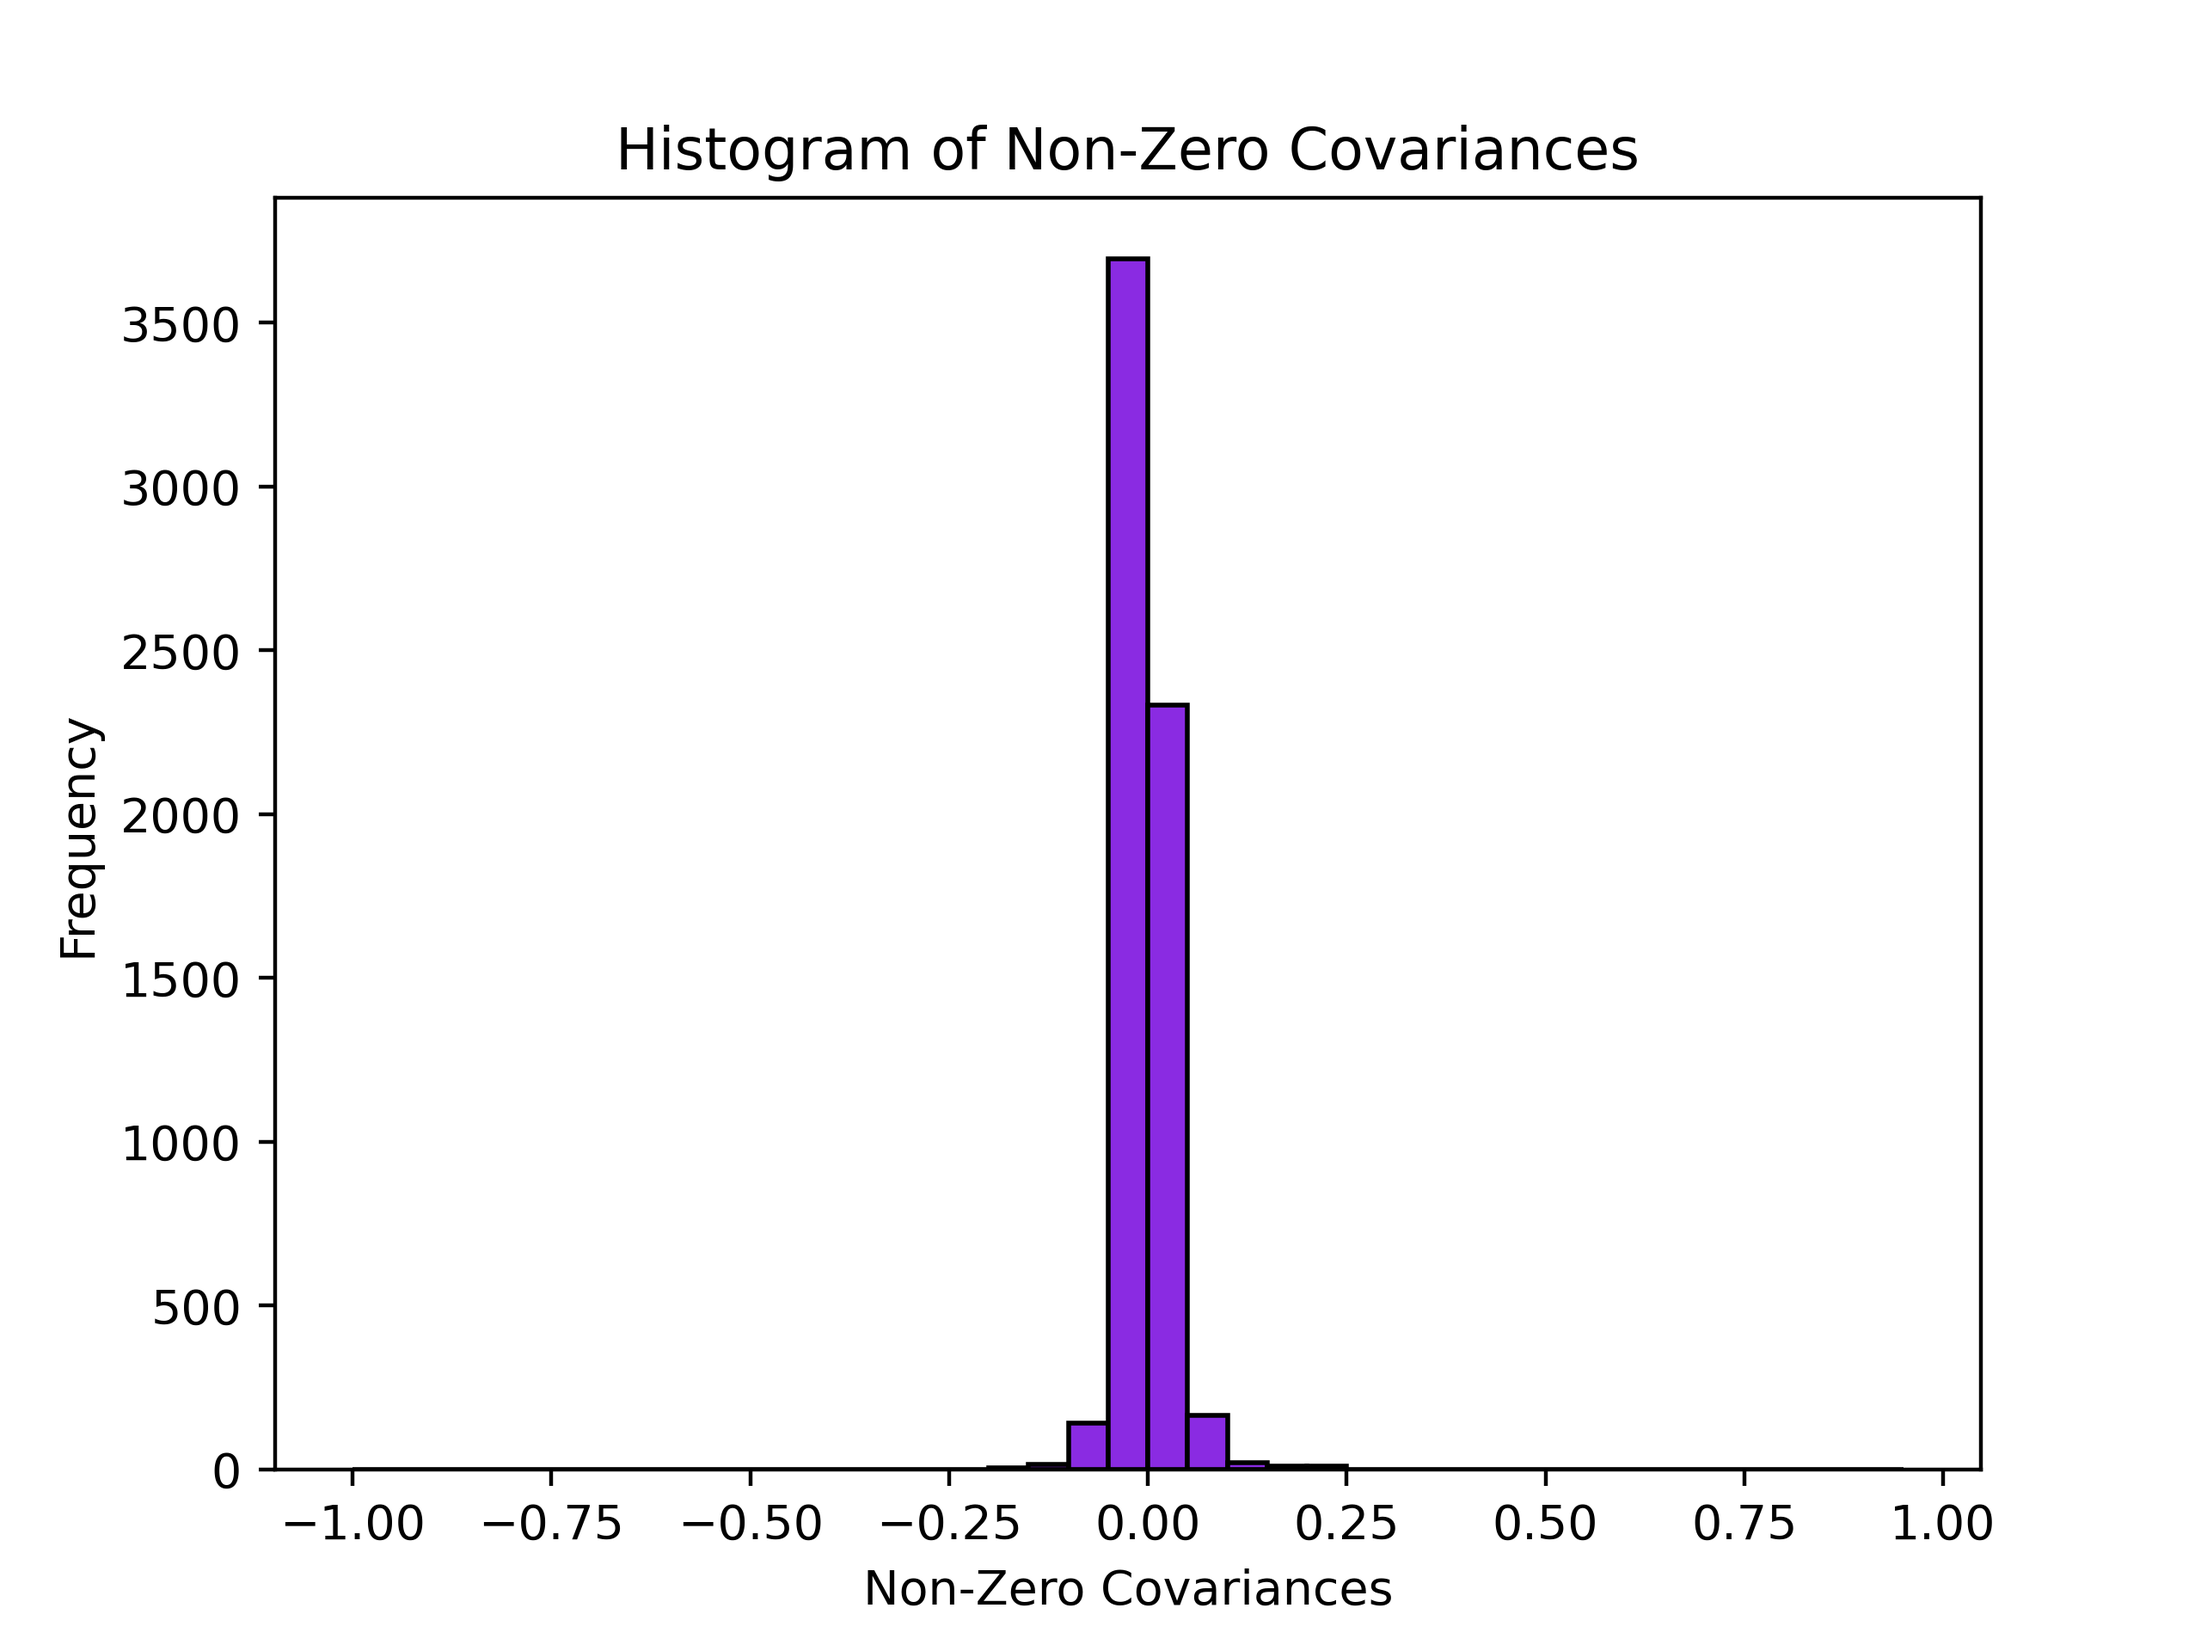
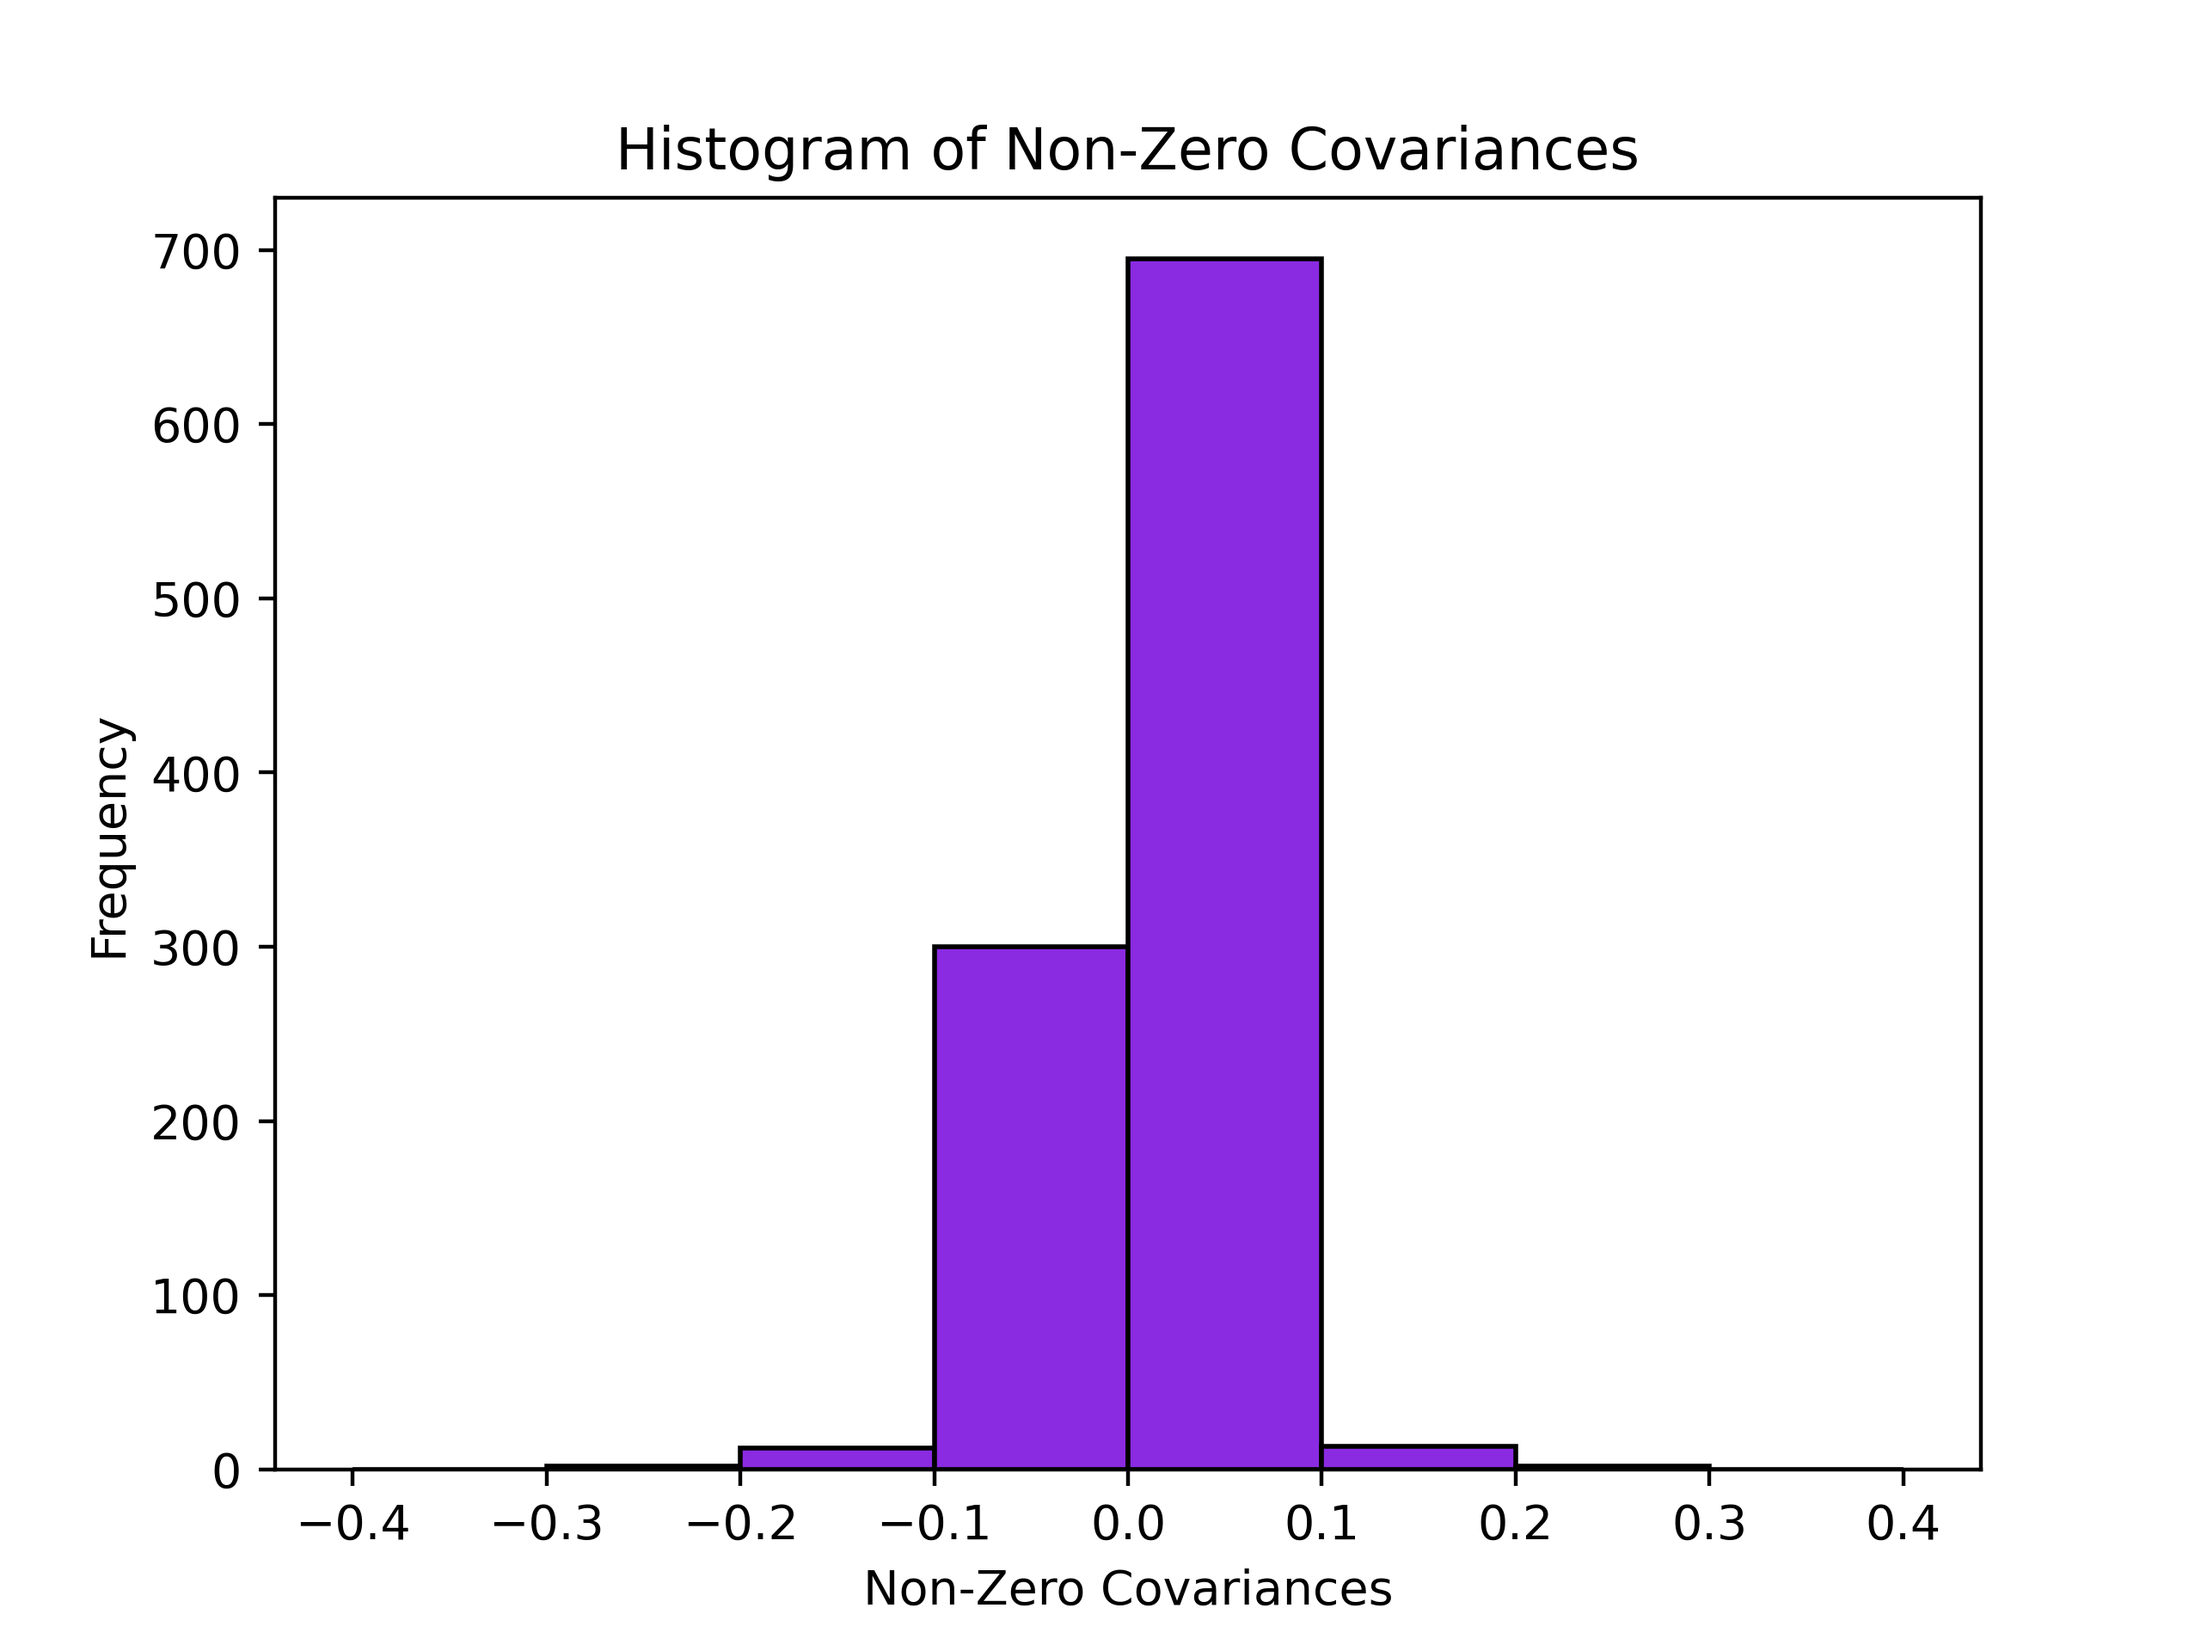
Better adjustment and linting

diff --git a/ortho_seq_code/orthogonal_polynomial.py b/ortho_seq_code/orthogonal_polynomial.py
@@ -270,9 +270,9 @@ def orthogonal_polynomial(
         # Covariance plot
         cov_flat = cov.flatten()
         cov_flat = cov_flat[cov_flat != 0]
-        bns = [0.1*(min(cov_flat)//0.1 - 1)]
-        while bns[-1]<=0.1*(max(cov_flat)//0.1 + 1):
-            bns.append(bns[-1]+0.1)
+        bns = [0.05 * (min(cov_flat) // 0.05 - 1)]
+        while bns[-1] <= 0.05 * (max(cov_flat) // 0.05 + 1):
+            bns.append(bns[-1] + 0.05)
         fig, cov_sub = plt.subplots()
         cov_sub.hist(
             cov_flat,
